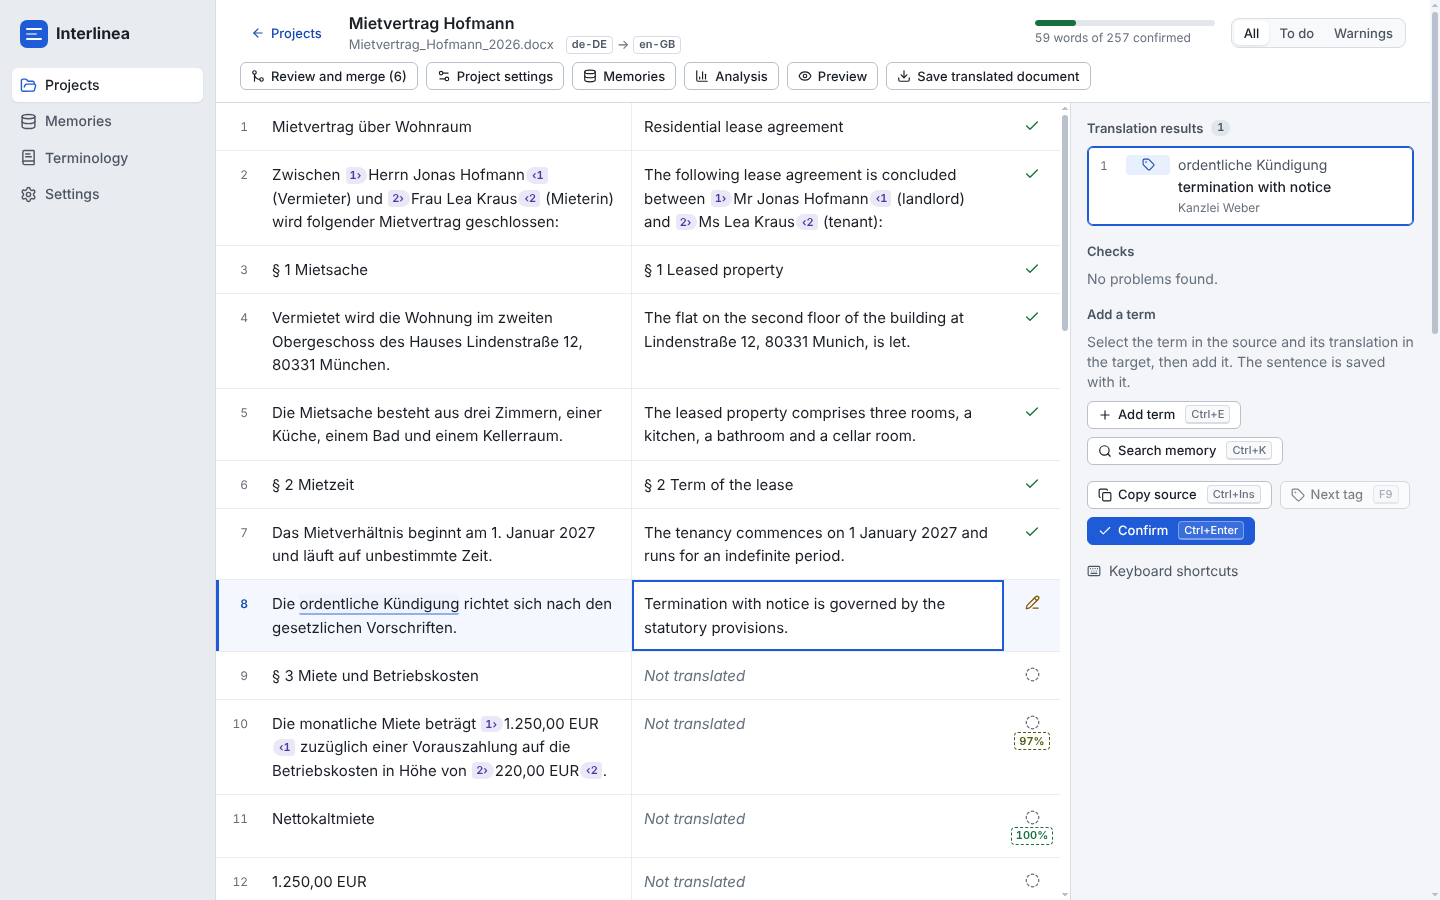
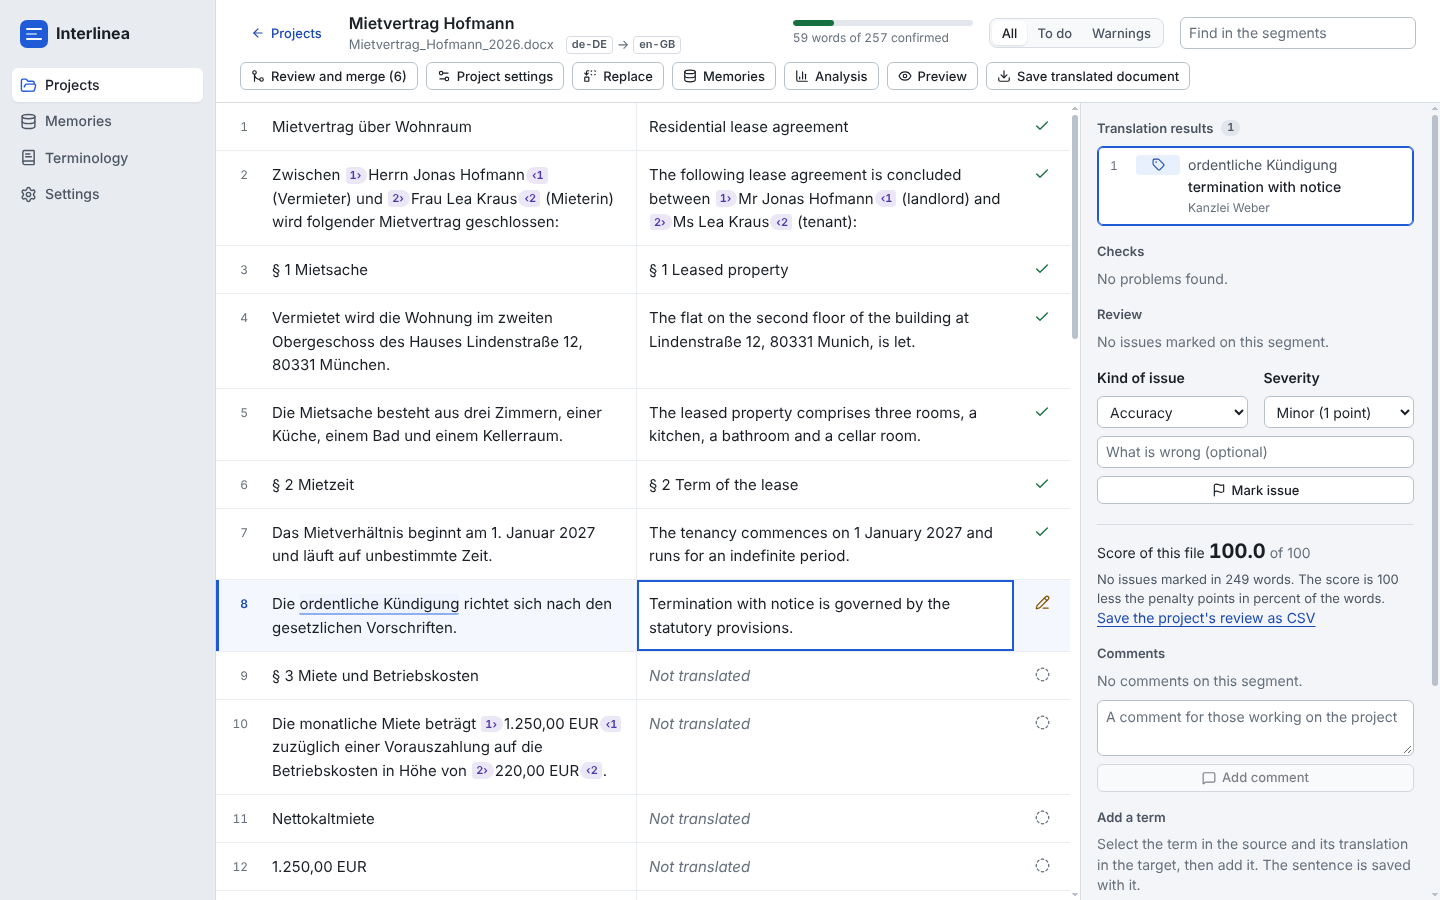
Release 0.1.0
The changelog has its section for the first release. The README opens
with what Interlinea is, its badges and a current picture of the
editor.

diff --git a/README.md b/README.md
@@ -1,18 +1,33 @@
 # Interlinea
 
-An open-source translation workspace: CAT editor, terminology, translation
-memory and project workflow in one tool, translation first.
+An open-source translation workspace: CAT editor, terminology, translation memory and project workflow in one tool, as a desktop app, a browser client and a team server.
+
+[![Version](https://img.shields.io/github/v/release/4nonX/interlinea?style=flat-square)](https://github.com/4nonX/interlinea/releases/latest)
+[![License](https://img.shields.io/badge/license-AGPLv3-blue?style=flat-square)](LICENSE)
+[![Go](https://img.shields.io/badge/Go-1.24-00ADD8?style=flat-square&logo=go&logoColor=white)](go.mod)
+[![Qt](https://img.shields.io/badge/Qt-6-41CD52?style=flat-square&logo=qt&logoColor=white)](docs/desktop.md)
+[![CI](https://github.com/4nonX/interlinea/actions/workflows/ci.yml/badge.svg)](https://github.com/4nonX/interlinea/actions/workflows/ci.yml)
+
+![The translation editor](docs/screenshots/editor.png)
+
+The editor, the same in the desktop app and in the browser: source and
+target side by side, tags as numbered markers, terms from the termbase
+underlined in the source with their translation in the results, memory
+matches, checks and review for the segment, and the shortcuts from Trados
+Studio and memoQ.
+
+---
+
+| For | What |
+|---|---|
+| Translators | An editor with translation memory, concordance, terminology, quality checks, spelling, grammar checking, and suggestions from a translation service of your own |
+| Terminologists | Termbases with one concept per entry, review of what projects add and change, and exchange as TBX, MultiTerm, CSV and Excel |
+| Project managers | Projects from documents, bilingual files and packages, analysis, pre-translation, work given to translators and reviewers, scored review |
+| Teams | A team server that keeps terminology, memories and projects in one place, with accounts, roles and sign-in through a provider |
+| Files | DOCX, PPTX, XLSX, ODT, ODS, ODP, HTML, IDML, XML, Markdown, PDF, software strings, subtitles, text, XLIFF, SDLXLIFF, MQXLIFF, Trados and memoQ packages |
 
 This repository holds the Go core, the team server, the native desktop app
-(Qt 6) and a browser client.
-
-![The translation editor in the browser client](docs/screenshots/editor.png)
-
-The editor in the browser client: source and target side by side, tags as
-numbered markers, terms from the termbase underlined in the source with
-their translation in the results, checks for the segment, and the
-shortcuts from Trados Studio and memoQ. The desktop app gets the same
-editor in its next stage.
+(Qt 6) and the browser client.
 
 ![The desktop app's project list](docs/screenshots/projects.png)
 
@@ -39,8 +54,7 @@ release brought.
   ```
 
   Then open http://localhost:8080. For PostgreSQL, take
-  [compose.yaml](compose.yaml). While the repository is private, so is
-  the image: sign in first with `docker login ghcr.io`.
+  [compose.yaml](compose.yaml).
 - **Team server, without Docker.** Unpack
   `interlinea-server-<version>-<system>-<processor>` and start
   `interlinea-server -web web`. The command line tool `interlinea` is in

diff --git a/CHANGELOG.md b/CHANGELOG.md
@@ -7,8 +7,10 @@ takes its notes from its section here.
 
 ## [Unreleased]
 
-What the first release will hold: the core, the team server, the web
-client and the desktop app, with installers and a server image.
+## [0.1.0] - 2026-11-25
+
+The first release: the core, the team server, the web client and the
+desktop app, with installers and a server image.
 
 Interlinea is free software under the GNU Affero General Public License,
 version 3.
@@ -182,4 +184,5 @@ version 3.
   a test, and the steps of each store's schema can no longer be changed
   once recorded.
 
-[Unreleased]: https://github.com/4nonX/interlinea/commits/main
+[Unreleased]: https://github.com/4nonX/interlinea/compare/v0.1.0...HEAD
+[0.1.0]: https://github.com/4nonX/interlinea/releases/tag/v0.1.0

diff --git a/docs/running.md b/docs/running.md
@@ -41,9 +41,8 @@ docker run -d --name interlinea -p 8080:8080 -v interlinea:/data \
   ghcr.io/4nonx/interlinea-server:latest
 ```
 
-While the repository is private, so is the image: `docker login ghcr.io`
-first, with a GitHub token that may read packages. `docker build -t
-interlinea-server .` builds the same image from the source.
+`docker build -t interlinea-server .` builds the same image from the
+source.
 
 `compose.yaml` runs it with PostgreSQL:
 
